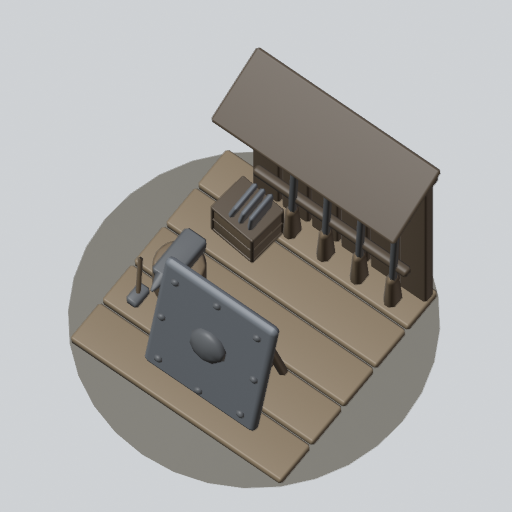
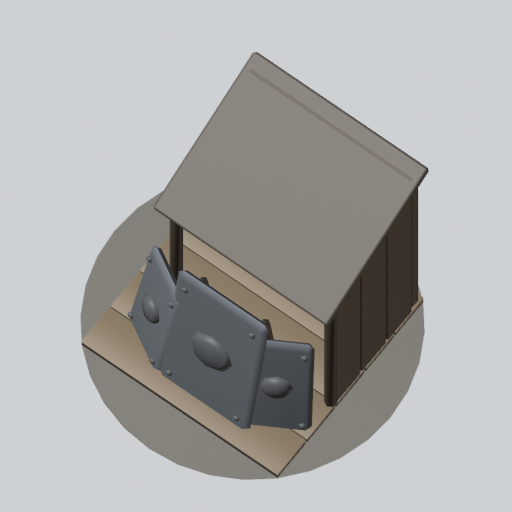
art: Armory bolder upgrades - S1 a roofed shed behind a wall of three riveted shields, S2 a crest with crossed rifles and a glowing boss on the roof, brass-rimmed shields and a glowing forge (#443)

diff --git a/tools/art/models/tower/_armory.py b/tools/art/models/tower/_armory.py
@@ -4,10 +4,12 @@ It doesn't shoot: no muzzle piece. The back wall stops short of the back-right c
 owner flag's). Authored from the base (y 0) in Roblox studs; front = -Z (_kit conventions).
 
 Stage 0 (tiers 0-2): floor, back wall + overhang, three racked rifles, the shield on its stand.
-Stage 1 (tier 3):    a fourth rifle, an anvil on a stump with a hammer, a
-                     crate of spare plates, rivets on the shield.
-Stage 2 (tier 5):    a brass-rimmed shield with a brass boss, pith helmets with brass bands on
-                     wall pegs, a glowing forge brazier, a brass lantern on the wall.
+Stage 1 (tier 3):    a roofed shed (a taller back wall, a side wall, front posts and a deep
+                     shingle roof), a wall of three riveted plate shields across the front, a
+                     fourth rifle.
+Stage 2 (tier 5):    a big round crest with crossed rifles and a glowing boss on the roof (the crown), brass rims,
+                     bosses and rivets on the shields, a stone forge of glowing coals under a
+                     brass hood and chimney, a lantern.
 """
 
 import importlib.util
@@ -22,20 +24,44 @@ STEEL = (115, 125, 140)  # TowerLook.COLORS.ARMORY
 WALL_Z, WALL_X0, WALL_X1, WALL_TOP = 1.28, -1.42, 0.95, 3.1
 
 
+def shield_point(sc, tilt, yaw, x, y, z):
+    """A point in a shield's frame (x across, y up its face, z < 0 = in front) -> the tower's."""
+    t, w = math.radians(tilt), math.radians(yaw)
+    y2, z2 = y * math.cos(t) - z * math.sin(t), y * math.sin(t) + z * math.cos(t)
+    x3, z3 = x * math.cos(w) + z2 * math.sin(w), -x * math.sin(w) + z2 * math.cos(w)
+    return (sc[0] + x3, sc[1] + y2, sc[2] + z3)
+
+
 def build(lp, stage):
     k = K.Kit(lp)
+    big = stage >= 1  # stage 1+: a roofed shed (side wall, deep roof) and a wall of shields
+    wall_top = WALL_TOP if not big else 3.6
 
     # plank floor
-    k.add("deck", *[K.rbox((0, 0.07, z), (2.84, 0.12, 0.54), bevel=0.03) for z in (-1.14, -0.57, 0.0, 0.57, 1.14)])
+    k.add("deck", *[K.rbox((0, 0.07, z), (2.84, 0.12, 0.54), bevel=0.03 if not big else 0.0) for z in (-1.14, -0.57, 0.0, 0.57, 1.14)])
     # back wall: upright planks, a top beam, a shingle overhang sloping forward
     n = 6
     w = (WALL_X1 - WALL_X0) / n
-    planks = [K.rbox((WALL_X0 + w * (i + 0.5), (0.13 + WALL_TOP) / 2, WALL_Z), (w - 0.03, WALL_TOP - 0.13, 0.16), bevel=0.03)
+    planks = [K.rbox((WALL_X0 + w * (i + 0.5), (0.13 + wall_top) / 2, WALL_Z), (w - 0.03, wall_top - 0.13, 0.16), bevel=0.03)
               for i in range(n)]
-    k.add("wall", *planks)
     mid = (WALL_X0 + WALL_X1) / 2
-    k.add("dark", K.rbox((mid, WALL_TOP, WALL_Z), (WALL_X1 - WALL_X0 + 0.06, 0.18, 0.24), bevel=0.04),
-          K.bar((mid, WALL_TOP + 0.15, WALL_Z + 0.12), (mid, 2.82, 0.55), WALL_X1 - WALL_X0 + 0.1, 0.08, bevel=0.03))
+    if not big:
+        k.add("wall", *planks)
+        k.add("dark", K.rbox((mid, wall_top, WALL_Z), (WALL_X1 - WALL_X0 + 0.06, 0.18, 0.24), bevel=0.04),
+              K.bar((mid, wall_top + 0.15, WALL_Z + 0.12), (mid, 2.82, 0.55), WALL_X1 - WALL_X0 + 0.1, 0.08, bevel=0.03))
+    else:
+        # a side wall on the left, posts at the front corners, a deep shingle roof over all of it
+        def roof_y(z):  # the roof's underside over z (it slopes from the wall top down to the front)
+            return wall_top + 0.06 + (2.72 - wall_top - 0.06) * (WALL_Z + 0.14 - z) / (WALL_Z + 0.14 + 0.55)
+
+        for z in (-0.05, 0.45, 0.95):
+            top = roof_y(z - 0.25) - 0.03  # its front edge, where the roof is lowest
+            planks.append(K.rbox((-1.36, (0.13 + top) / 2, z), (0.14, top - 0.13, 0.5), bevel=0.03))
+        k.add("wall", *planks)
+        k.add("dark", K.rbox((mid, wall_top, WALL_Z), (WALL_X1 - WALL_X0 + 0.06, 0.18, 0.24), bevel=0.04),
+              *[K.rod((x, 0.13, -0.3), (x, 2.75, -0.3), 0.08, 6) for x in (-1.36, 0.88)],
+              K.rbox(((-1.36 + 0.88) / 2, 2.78, -0.3), (0.88 + 1.36 + 0.12, 0.16, 0.16), bevel=0.03))
+        k.add("roof", K.bar((mid, wall_top + 0.12, WALL_Z + 0.14), (mid, 2.78, -0.55), WALL_X1 - WALL_X0 + 0.16, 0.12, bevel=0.03))
 
     # the rack: two rails and the rifles (stock on the floor, barrel up, leaning on the wall)
     rz = WALL_Z - 0.2
@@ -44,66 +70,58 @@ def build(lp, stage):
     k.add("wood", *[K.rbox((x, 0.45, rz - 0.06), (0.16, 0.6, 0.24), bevel=0.05, taper=(0.8, 0.7)) for x in xs])
     k.add("metal", *[K.rod((x, 0.72, rz - 0.06), (x, 2.5, rz + 0.02), 0.045, 6) for x in xs])
 
-    # the plate shield, tilted back on a wooden stand
-    sc, tilt = (-0.15, 1.2, -0.95), 12
-    k.add("body", K.rbox(sc, (1.5, 1.9, 0.14), bevel=0.25, segments=2, rot=(tilt, 0, 0)))
-    k.add("wood", *[K.rod((sc[0] + sx * 0.5, 0.13, -0.35), (sc[0] + sx * 0.5, 1.7, -0.74), 0.06, 6) for sx in (-1, 1)],
-          K.rod((sc[0] - 0.5, 0.6, -0.55), (sc[0] + 0.5, 0.6, -0.55), 0.05, 6))
-    def face(x, y, z):
-        """A point in the shield's frame (z < 0 = in front of its face) -> the tower's."""
-        t = math.radians(tilt)
-        return (sc[0] + x, sc[1] + y * math.cos(t) - z * math.sin(t), sc[2] + y * math.sin(t) + z * math.cos(t))
-
-    boss = face(0, 0.05, -0.08)
-    boss_obj = K.ell(boss, (0.24, 0.24, 0.12), 10, 6, rot=(tilt, 0, 0))
-
     brass = []
-    if stage >= 1:
-        # rivets round the shield's face
-        rv = [K.ell(face(x, y, -0.08), (0.055, 0.055, 0.04), 6, 4)
-              for x, y in ((-0.55, 0.72), (0.55, 0.72), (-0.55, -0.72), (0.55, -0.72), (0, 0.8), (0, -0.8), (-0.62, 0), (0.62, 0))]
+    if not big:
+        # the plate shield, tilted back on a wooden stand
+        sc, tilt = (-0.15, 1.2, -0.95), 12
+        k.add("body", K.rbox(sc, (1.5, 1.9, 0.14), bevel=0.25, segments=2, rot=(tilt, 0, 0)))
+        k.add("wood", *[K.rod((sc[0] + sx * 0.5, 0.13, -0.35), (sc[0] + sx * 0.5, 1.7, -0.74), 0.06, 6) for sx in (-1, 1)],
+              K.rod((sc[0] - 0.5, 0.6, -0.55), (sc[0] + 0.5, 0.6, -0.55), 0.05, 6))
+        k.add("metal", K.ell(shield_point(sc, tilt, 0, 0, 0.05, -0.08), (0.24, 0.24, 0.12), 10, 6, rot=(tilt, 0, 0)))
+    else:
+        # a wall of three big plate shields across the front, the middle one tallest
+        shields = (((-0.2, 1.25, -1.0), 1.3, 2.2, 0), ((-0.97, 1.0, -0.82), 0.85, 1.7, 30), ((0.72, 1.0, -0.88), 0.85, 1.7, -30))
+        plates, bosses, rivets, rims = [], [], [], []
+        for sc, sw, sh, yaw in shields:
+            tilt = 10
+            plates.append(K.rbox(sc, (sw, sh, 0.14), bevel=0.2, segments=1, rot=(tilt, yaw, 0)))
+            bosses.append(K.ell(shield_point(sc, tilt, yaw, 0, 0.05, -0.08), (0.2 * sw / 0.85, 0.2 * sw / 0.85, 0.1), 8, 4, rot=(tilt, yaw, 0)))
+            rivets += [K.ell(shield_point(sc, tilt, yaw, x * sw / 2 * 0.75, y * sh / 2 * 0.8, -0.08), (0.05, 0.05, 0.035), 6, 3)
+                       for x, y in ((-1, 1), (1, 1), (-1, -1), (1, -1))]
+            if stage >= 2:
+                rims.append(K.rbox(shield_point(sc, tilt, yaw, 0, 0, 0.03), (sw + 0.12, sh + 0.12, 0.08), bevel=0.2, segments=1, rot=(tilt, yaw, 0)))
+        k.add("body", *plates)
+        k.add("wood", K.rod((-1.1, 0.75, -0.45), (0.8, 0.75, -0.5), 0.06, 6),
+              *[K.rod((x, 0.13, -0.4), (x, 1.9, -0.62), 0.06, 6) for x in (-0.65, 0.25)])
         if stage >= 2:
-            brass += rv
+            brass += bosses + rivets + rims
         else:
-            k.add("metal", *rv)
-        # an anvil on a stump, a hammer leaning on it
-        ax, az = 0.85, -0.2
-        k.add("wood", K.cyl((ax, 0.4, az), 0.3, 0.55, 12, bevel=0.04))
-        k.add("metal", K.rbox((ax, 0.8, az), (0.3, 0.22, 0.6), bevel=0.04, taper=(1.0, 1.1)),
-              K.rod((ax, 0.86, az - 0.3), (ax, 0.82, az - 0.5), 0.09, 8, top=0.2),
-              K.rbox((ax + 0.22, 0.35, az - 0.45), (0.16, 0.12, 0.26), bevel=0.03))
-        k.add("wood", K.rod((ax + 0.22, 0.35, az - 0.45), (ax + 0.3, 0.92, az - 0.3), 0.03, 5))
-        # a crate of spare plates by the wall's open end
-        core, frame = K.crate((0.65, 0.42, 0.75), (0.62, 0.56, 0.52), -6)
-        k.add("wood", core)
-        k.add("dark", *frame)
-        k.add("body", *[K.rbox((0.6 + d, 0.78, 0.75), (0.07, 0.42, 0.4), bevel=0.03, rot=(0, 0, 10 + d * 40)) for d in (-0.12, 0.0, 0.12)])
+            k.add("metal", *bosses, *rivets)
 
     if stage >= 2:
-        brass.append(boss_obj)
-        boss_obj = None
-        brass.append(K.rbox(face(0, 0, 0.03), (1.62, 2.02, 0.1), bevel=0.28, segments=2, rot=(tilt, 0, 0)))  # rim
-        # pith helmets on pegs on the wall
-        for x in (-0.95, -0.25):
-            k.add("dark", K.rod((x, 2.7, WALL_Z - 0.08), (x, 2.7, WALL_Z - 0.3), 0.03, 5))
-            k.add("helmet", K.ell((x, 2.72, WALL_Z - 0.32), (0.26, 0.22, 0.28), 10, 6),
-                  K.cyl((x, 2.62, WALL_Z - 0.32), (0.34, 0.38), 0.04, 14, bevel=0.015))
-            brass.append(K.ring((x, 2.67, WALL_Z - 0.32), 0.255, 0.03, 12, 4))
-        # a forge brazier by the anvil
-        fx, fz = 1.05, -1.05
-        k.add("metal", K.cyl((fx, 0.45, fz), 0.3, 0.2, 12, top=1.25), *[K.rod((fx + dx, 0.0, fz + dz), (fx + dx * 0.6, 0.35, fz + dz * 0.6), 0.03, 5)
-                                                                     for dx, dz in ((0.25, 0), (-0.14, 0.2), (-0.14, -0.2))])
-        k.add("glow", *[K.ell((fx + dx, 0.58, fz + dz), (0.13, 0.1, 0.13), 8, 4) for dx, dz in ((0, 0), (0.12, 0.1), (-0.1, 0.12), (0.06, -0.13))])
-        # a lantern on the wall
+        # the crest on the roof: a big round brass-rimmed shield with crossed rifles - the crown
+        cc = (mid, wall_top + 0.72, WALL_Z - 0.05)
+        k.add("body", K.cyl(cc, 0.62, 0.12, 14, rot=(90, 0, 0), bevel=0.03))
+        brass += [K.ring(cc, 0.62, 0.07, 14, 4, rot=(90, 0, 0)), K.ring((cc[0], cc[1], cc[2] - 0.07), 0.27, 0.05, 12, 3, rot=(90, 0, 0))]
+        k.add("glow", K.ell((cc[0], cc[1], cc[2] - 0.09), (0.25, 0.25, 0.1), 10, 4), piece="gem")  # a glowing boss
+        k.add("metal", *[K.rod((cc[0] - sx * 0.8, cc[1] - 0.6, cc[2] - 0.12), (cc[0] + sx * 0.8, cc[1] + 0.6, cc[2] - 0.12), 0.05, 6) for sx in (-1, 1)])
+        k.add("wood", *[K.rod((cc[0] - sx * 0.8, cc[1] - 0.6, cc[2] - 0.12), (cc[0] - sx * 0.5, cc[1] - 0.38, cc[2] - 0.12), 0.08, 6) for sx in (-1, 1)])
+        # a stone forge at the front-right, its coals glowing, a brass-hooded chimney
+        fx, fz = 1.05, -0.95
+        k.add("stone", K.rbox((fx, 0.4, fz), (0.8, 0.7, 0.8), bevel=0.08, taper=(0.9, 0.9)))
+        k.add("glow", K.rbox((fx, 0.76, fz), (0.6, 0.08, 0.6), bevel=0.03),
+              *[K.ell((fx + dx, 0.82, fz + dz), (0.15, 0.1, 0.15), 6, 3) for dx, dz in ((-0.12, -0.1), (0.13, 0.05), (-0.05, 0.15))], piece="coals")
+        brass += [K.rbox((fx + 0.05, 1.55, fz + 0.15), (0.6, 0.3, 0.6), bevel=0.04, taper=(0.4, 0.4)),
+                  *[K.rod((fx + sx * 0.33, 0.75, fz + sz * 0.33), (fx + sx * 0.25, 1.42, fz + sz * 0.25 + 0.1), 0.03, 4) for sx in (-1, 1) for sz in (-1, 1)]]
+        k.add("metal", K.rod((fx + 0.05, 1.68, fz + 0.15), (fx + 0.05, 2.6, fz + 0.15), 0.12, 8))
+        # a lantern under the roof
         brass += [K.cyl((0.6, 2.42, WALL_Z - 0.2), 0.09, 0.06, 8), K.rod((0.6, 2.45, WALL_Z - 0.2), (0.6, 2.45, WALL_Z - 0.06), 0.02, 5)]
-        k.add("glow", K.ell((0.6, 2.27, WALL_Z - 0.2), (0.1, 0.13, 0.1), 8, 5), piece="lantern")
-    if boss_obj is not None:
-        k.add("metal", boss_obj)
+        k.add("glow", K.ell((0.6, 2.27, WALL_Z - 0.2), (0.12, 0.15, 0.12), 8, 4), piece="lantern")
     if brass:
         k.add("brass", *brass)
 
     colors = {
         "body": STEEL, "deck": (150, 112, 72), "wall": (92, 66, 44), "dark": (60, 44, 30), "wood": K.WOOD,
-        "metal": (78, 82, 88), "helmet": (226, 214, 180), "brass": K.BRASS, "glow": (255, 140, 50),
+        "metal": (78, 82, 88), "roof": (84, 70, 58), "stone": (128, 124, 116), "brass": K.BRASS, "glow": (255, 140, 50),
     }
     return k.model("11d", colors, "ARMORY", stage)
